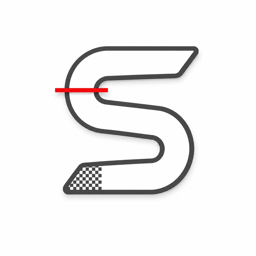
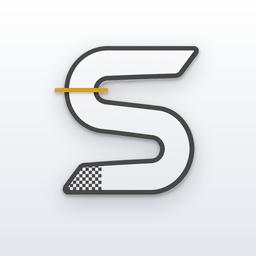
Icone novo (S com a linha dourada) e os toques de cor em dourado

diff --git a/style.css b/style.css
@@ -5,7 +5,8 @@
   --ink-soft: #525963;
   --ink-faint: #7d8593;
   --line: #e2e5ea;
-  --accent: #d0101f;
+  --accent: #946c11;
+  --accent-line: #d6a21e;
   --code-bg: #f0f2f5;
 }
 * { box-sizing: border-box; }
@@ -150,7 +151,7 @@ footer.site a { margin-right: 1.1rem; }
 .progress i { display: block; height: 100%; width: 100%; background: var(--green); }
 .corner { display: flex; justify-content: space-between; align-items: center; }
 .corner b { font-size: 12px; }
-.delta-bad { color: var(--accent); font-weight: 700; font-variant-numeric: tabular-nums; }
+.delta-bad { color: #d0101f; font-weight: 700; font-variant-numeric: tabular-nums; }
 .delta-good { color: var(--green); font-weight: 700; font-variant-numeric: tabular-nums; }
 .sectors { display: flex; gap: 2px; margin-top: .4rem; }
 .sectors i { flex: 1; height: .4rem; border-radius: 2px; }
@@ -160,7 +161,7 @@ footer.site a { margin-right: 1.1rem; }
 .p2 { background: #c9cfd8; color: #2b3138 !important; }
 .p3 { background: #d9a273; color: #3a2210 !important; }
 .who { flex: 1; margin-left: .5rem; color: var(--ink) !important; }
-.me { background: color-mix(in srgb, var(--accent) 10%, transparent); border-radius: .4rem; padding-left: .3rem !important; padding-right: .3rem !important; }
+.me { background: color-mix(in srgb, var(--accent-line) 14%, transparent); border-radius: .4rem; padding-left: .3rem !important; padding-right: .3rem !important; }
 
 /* Feature blocks */
 .feature { padding: 5.5rem 0; border-top: 1px solid var(--line); }
@@ -181,7 +182,7 @@ footer.site a { margin-right: 1.1rem; }
 .grid { display: grid; grid-template-columns: repeat(3, 1fr); gap: 2.4rem 2.2rem; }
 .grid h4 { font-size: 1.05rem; margin: .8rem 0 .4rem; letter-spacing: -.01em; }
 .grid p { font-size: .95rem; margin: 0; }
-.icon { width: 2.6rem; height: 2.6rem; border-radius: .75rem; display: grid; place-items: center; background: var(--tint); color: var(--accent); }
+.icon { width: 2.6rem; height: 2.6rem; border-radius: .75rem; display: grid; place-items: center; background: var(--tint); color: var(--accent-line); }
 .icon svg { width: 1.35rem; height: 1.35rem; fill: none; stroke: currentColor; stroke-width: 1.8; stroke-linecap: round; stroke-linejoin: round; }
 
 /* Pricing */
@@ -189,15 +190,15 @@ footer.site a { margin-right: 1.1rem; }
 .pricing .intro { max-width: 40rem; margin: -1.8rem 0 2.8rem; font-size: 1.05rem; }
 .plans { display: grid; grid-template-columns: repeat(4, 1fr); gap: 1rem; }
 .plan { background: var(--surface); border: 1px solid var(--line); border-radius: 1rem; padding: 1.4rem 1.3rem; display: flex; flex-direction: column; }
-.plan.featured { border-color: var(--accent); box-shadow: 0 0 0 1px var(--accent); }
+.plan.featured { border-color: var(--accent-line); box-shadow: 0 0 0 1px var(--accent-line); }
 .plan h4 { margin: 0; font-size: 1rem; }
 .price { font-size: 2rem; font-weight: 700; letter-spacing: -.03em; margin: .5rem 0 .1rem; color: var(--ink); }
 .price small { font-size: .9rem; font-weight: 500; color: var(--ink-faint); letter-spacing: 0; }
 .plan .alt { font-size: .85rem; color: var(--ink-faint); margin: 0 0 1rem; min-height: 1.3em; }
 .plan ul { list-style: none; padding: 0; margin: 0; font-size: .92rem; }
 .plan li { padding-left: 1.3rem; position: relative; margin-bottom: .5rem; }
-.plan li::before { content: ""; position: absolute; left: 0; top: .45em; width: .55rem; height: .3rem; border-left: 2px solid var(--accent);
-  border-bottom: 2px solid var(--accent); rotate: -45deg; }
+.plan li::before { content: ""; position: absolute; left: 0; top: .45em; width: .55rem; height: .3rem; border-left: 2px solid var(--accent-line);
+  border-bottom: 2px solid var(--accent-line); rotate: -45deg; }
 .fineprint { font-size: .85rem; color: var(--ink-faint); margin-top: 1.5rem; }
 
 /* Maker + CTA + footer */

diff --git a/index.html b/index.html
@@ -6,8 +6,8 @@
 <title>Sektor · Karting lap timing and telemetry</title>
 <meta name="description" content="Sektor turns your karting sessions into lap times, racing lines and corner-by-corner analysis — and lets you race your friends long after you've left the track. For iPhone and Android.">
 <meta name="color-scheme" content="light">
-<link rel="icon" type="image/png" sizes="32x32" href="favicon-32.png?v=4">
-<link rel="apple-touch-icon" href="favicon-180.png?v=4">
+<link rel="icon" type="image/png" sizes="32x32" href="favicon-32.png?v=5">
+<link rel="apple-touch-icon" href="favicon-180.png?v=5">
 <link rel="stylesheet" href="style.css">
 </head>
 <body class="home">

diff --git a/apagar-conta.html b/apagar-conta.html
@@ -4,8 +4,8 @@
 <meta charset="utf-8">
 <meta name="viewport" content="width=device-width, initial-scale=1">
 <title>Delete your account · Sektor</title>
-<link rel="icon" type="image/png" sizes="32x32" href="favicon-32.png?v=4">
-<link rel="apple-touch-icon" href="favicon-180.png?v=4">
+<link rel="icon" type="image/png" sizes="32x32" href="favicon-32.png?v=5">
+<link rel="apple-touch-icon" href="favicon-180.png?v=5">
 <link rel="stylesheet" href="style.css">
 </head>
 <body>

diff --git a/privacidade.html b/privacidade.html
@@ -4,8 +4,8 @@
 <meta charset="utf-8">
 <meta name="viewport" content="width=device-width, initial-scale=1">
 <title>Privacy Policy · Sektor</title>
-<link rel="icon" type="image/png" sizes="32x32" href="favicon-32.png?v=4">
-<link rel="apple-touch-icon" href="favicon-180.png?v=4">
+<link rel="icon" type="image/png" sizes="32x32" href="favicon-32.png?v=5">
+<link rel="apple-touch-icon" href="favicon-180.png?v=5">
 <link rel="stylesheet" href="style.css">
 </head>
 <body>

diff --git a/termos.html b/termos.html
@@ -4,8 +4,8 @@
 <meta charset="utf-8">
 <meta name="viewport" content="width=device-width, initial-scale=1">
 <title>Terms of Use · Sektor</title>
-<link rel="icon" type="image/png" sizes="32x32" href="favicon-32.png?v=4">
-<link rel="apple-touch-icon" href="favicon-180.png?v=4">
+<link rel="icon" type="image/png" sizes="32x32" href="favicon-32.png?v=5">
+<link rel="apple-touch-icon" href="favicon-180.png?v=5">
 <link rel="stylesheet" href="style.css">
 </head>
 <body>

diff --git a/suporte.html b/suporte.html
@@ -4,8 +4,8 @@
 <meta charset="utf-8">
 <meta name="viewport" content="width=device-width, initial-scale=1">
 <title>Support · Sektor</title>
-<link rel="icon" type="image/png" sizes="32x32" href="favicon-32.png?v=4">
-<link rel="apple-touch-icon" href="favicon-180.png?v=4">
+<link rel="icon" type="image/png" sizes="32x32" href="favicon-32.png?v=5">
+<link rel="apple-touch-icon" href="favicon-180.png?v=5">
 <link rel="stylesheet" href="style.css">
 </head>
 <body>
